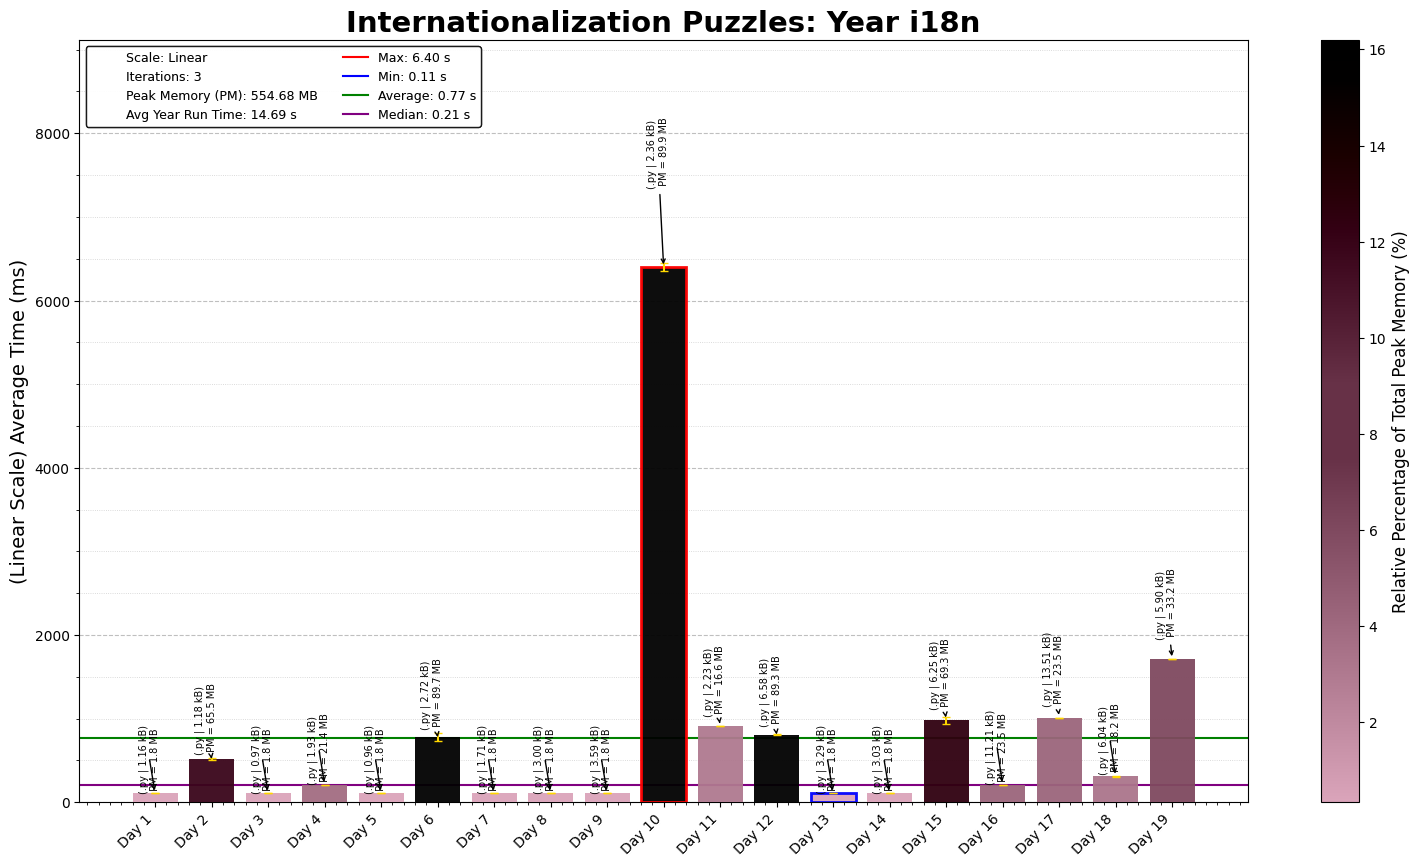
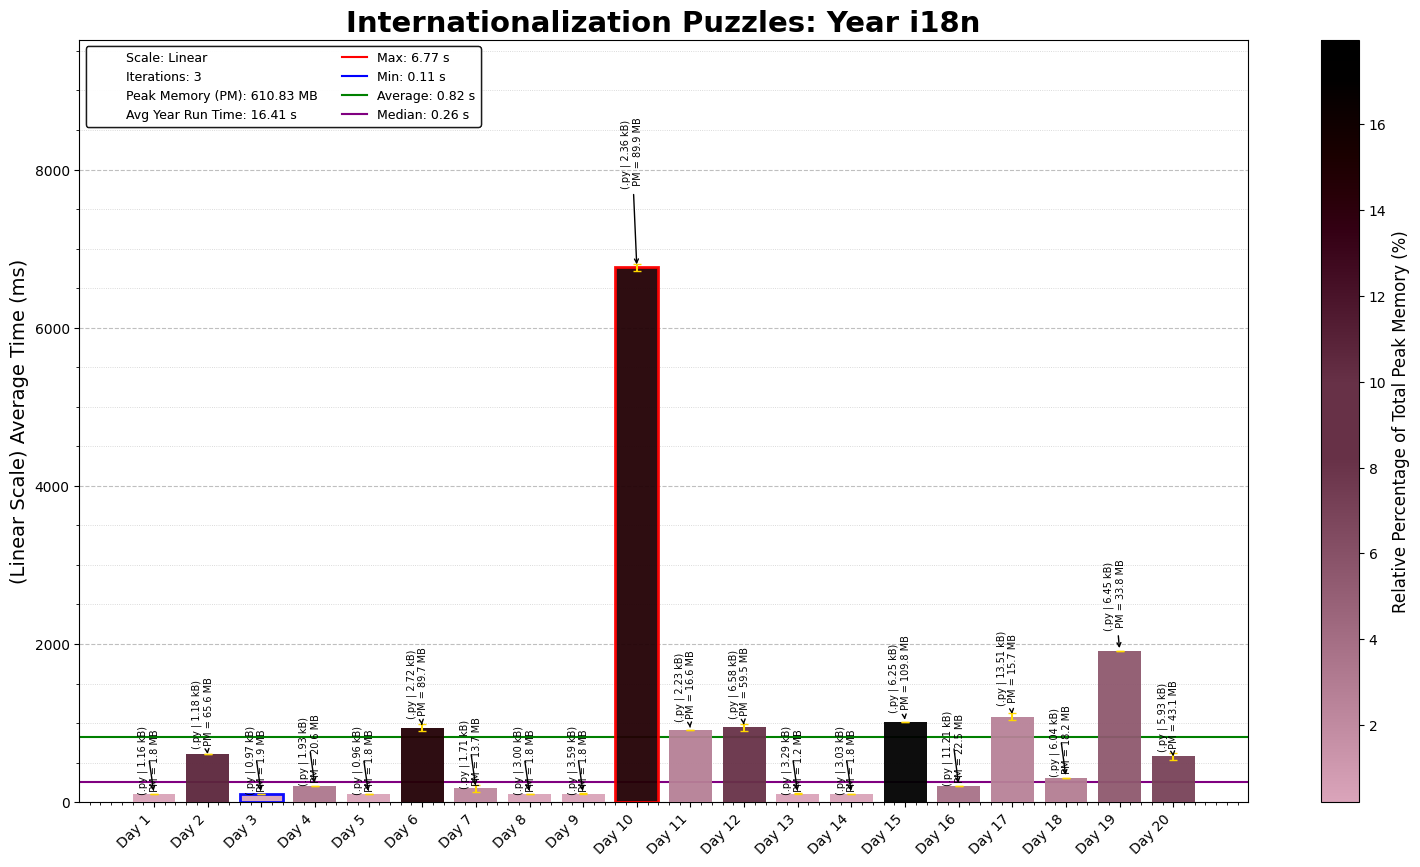
i18n Day20 Complete

diff --git a/i18n/20/i18nDay20.py b/i18n/20/i18nDay20.py
@@ -7,7 +7,7 @@ Brief: [The future of Unicode]
 
 #!/usr/bin/env python3
 
-import os, re, copy, time , more_itertools, base64
+import os, re, copy, time, base64
 import numpy as np
 import pandas as pd
 start_time = time.time()
@@ -21,8 +21,6 @@ with open(D20_file_path) as file:
     input_data = file.read().strip().split('\n')
 
 class UnicodeEncryptor:
[1 lines of base64/hex data omitted]
-
     def __init__(self, debug: bool = False):
         self.debug = debug
         self.test_message = self.__get_test("test_input.txt")
@@ -45,20 +43,20 @@ class UnicodeEncryptor:
         else:
             return "utf-8", bytes_data  # Default fallback
 
-    def __get_utf_text(self, encoded_message):
+    def get_utf_text(self, encoded_message):
         bytes_data = base64.b64decode(encoded_message)
         encoding_type, stripped_bytes = self.__identify_encoding(bytes_data)
         utf_text = stripped_bytes.decode(encoding_type)
 
         if self.debug:
-            print(" Init Message:", encoded_message)
-            print("Decoded bytes:", bytes_data)
-            print("Encoding Type:", encoding_type)
-            print("Bytes w/o BOM:", stripped_bytes)
-            print(" Decoded text:", utf_text)
+            print("   Init Message:", encoded_message)
+            print("  Decoded bytes:", bytes_data)
+            print("  Encoding Type:", encoding_type)
+            print("  Bytes w/o BOM:", stripped_bytes)
+            print("   Decoded text:", utf_text)
         return utf_text
 
-    def __regroup_utf16(self, utf16_text, n):
+    def regroup_utf16(self, utf16_text, n):
         regrouped_bits = ''
         for char in utf16_text:
             bits = f"{ord(char):0{n}b}"  # Binary string of length `n`, zero-padded
@@ -70,21 +68,82 @@ class UnicodeEncryptor:
         bit_list = [int(regrouped_bits[i:i+8], 2) for i in range(0, len(regrouped_bits), 8)]
 
         if self.debug:
-            print(" Grouped Bits:", regrouped_bits)
-            print("     Bit List:", bit_list)
+            print(" Grouped Binary:", regrouped_bits)
+            print("       Bit List:", bit_list)
         return bit_list
 
-    def decode_message(self, encrypted):
-        encrypted = self.test_message
+    @staticmethod
+    def __add_bits(rem_bits, shift, start):
+        """Construct a binary string starting from rem_bits[start], slicing off the last `shift` bits,
+        then appending the last 6 bits of each remaining item."""
+        bits = format(rem_bits[start], '08b')[-shift:]
+        bits += ''.join(format(b, '08b')[-6:] for b in rem_bits[start + 1:])
+        return bits
+
+    def decode_binary(self, bits_list, k):
+        """Decode a list of byte values into a binary string based on prefix rules."""
+        decoded_bits = ''
+
+        while bits_list:
+            base = bits_list[0]
+
+            if base >= 252:
+                # 6-byte pattern (e.g., UTF-8 encoding for code points >= 0x4000000)
+                chunk, bits_list = bits_list[:6], bits_list[6:]
+                decoded_bits += self.__add_bits(chunk, shift=4, start=1)
+
+            elif 248 <= base <= 251:
+                # 5-byte pattern
+                chunk, bits_list = bits_list[:5], bits_list[5:]
+                decoded_bits += self.__add_bits(chunk, shift=2, start=0).zfill(k)
+
+            elif 194 <= base <= 223:
+                # 2-byte pattern (common for extended ASCII / multibyte UTF-8)
+                chunk, bits_list = bits_list[:2], bits_list[2:]
+                decoded_bits += self.__add_bits(chunk, shift=2, start=0).zfill(8)
+
+            else:
+                # Skip unrecognized or single-byte base characters
+                bits_list = bits_list[1:]
+
+        return decoded_bits
+
+    def convert_to_utf8(self, binary_code):
+        # Convert the binary string into bytes, 8 bits at a time
+        bit_values = [int(binary_code[i:i+8], 2) for i in range(0, len(binary_code), 8)]
+        byte_values = bytes(bit_values)
+        message = byte_values.decode('utf-8')
+        if self.debug:
+            print(" Decoded Binary:", binary_code)
+            print("     UTF-8 Bits:", bit_values)
+            print("    UTF-8 Bytes:", byte_values)
+            print("  Final Message:", message)
+        return message
+
+    def follow_message(self, message):
+        # Extract all integers from the message
+        numbers = list(map(int, re.findall(r'\d+', message)))
+
+        # Sanity check: ensure there are exactly 3 numbers
+        if len(numbers) != 3:
+            raise ValueError("Expected exactly three numbers in the message.")
+
+        # Return the number that is neither the min nor the max
+        return sorted(numbers)[1]
+
+    def decode_message(self, encrypted = None):
+        if encrypted is None:
+            encrypted = self.test_message
         joined_message = ''.join(encrypted)
-        self.debug = True
-        utf_text = self.__get_utf_text(joined_message)
-        utf8_bits = self.__regroup_utf16(utf_text, 20)
+        utf_text = self.get_utf_text(joined_message)
+        utf8_bits = self.regroup_utf16(utf_text, n = 20)
+        decoded_bits = self.decode_binary(utf8_bits, k = 28)
+        message = self.convert_to_utf8(decoded_bits)
+        value = self.follow_message(message)
+        return message, value
 
-        return
-
-decoded = UnicodeEncryptor().decode_message(input_data)
+decoded, result = UnicodeEncryptor().decode_message(input_data)
 print("Decoded Message:", decoded)
+print("     Final Code:", result)
 
-
-print(f"Execution Time = {time.time() - start_time:.5f}s")
+# print(f"Execution Time = {time.time() - start_time:.5f}s")

diff --git a/README.md b/README.md
@@ -13,7 +13,7 @@ This project contains a Python script (`CreateScript.py`) that can be used to cr
 |-----------------------------|-----------|--------|---------|-----------|-----------|
 | [Codyssi: Journey to Atlantis](https://www.codyssi.com/challenge_set_2?)| 2024/2025 | [Link](https://github.com/abbasmoosajee07/AlgoVault/tree/main/Codyssi)   | 18      | 18        | ✅ Done  |
 | [piDay](https://ivanr3d.com/projects/pi/)             | 2024/2025 | [Link](https://github.com/abbasmoosajee07/AlgoVault/tree/main/pi)   | 2       | 2         | ✅ Done  |
-| [i18n Challenges](https://i18n-puzzles.com/)             | 20 Puzzles| [Link](https://github.com/abbasmoosajee07/AlgoVault/tree/main/i18n)   | 20      | 18        | 2 Left |
+| [i18n Challenges](https://i18n-puzzles.com/)             | 20 Puzzles| [Link](https://github.com/abbasmoosajee07/AlgoVault/tree/main/i18n)   | 20      | 20        | ✅ Done  |
 
 
 -------------

diff --git a/i18n/README_i18n.md b/i18n/README_i18n.md
@@ -23,7 +23,7 @@ This repository contains coding solutions for the i18n puzzles.
 17. **Puzzle 17- X marks the spot**: Decode a treasure map to find the coordinates of X. Essentially approached it as a puzzle, main assumption based on there being a single match for each section. *Favourite Puzzle tho* `Global ranking- 31`
 18. **Puzzle 18- Rex To Lynx**: Reading and evaluating equations, while checking for BiDi Characters. `Global ranking- 38`
 19. **Puzzle 19- Out of date**: Accounting for out-of-date time recording systems, by looking at last updated versions and then correcting for the shifts. Took a while to loading the old versions of the Zoneinfo databases. `Global ranking- 34`
-20. **Puzzle 20- The future of Unicode**: Decoding an encrypted message using a given sample. `Global ranking- `
+20. **Puzzle 20- The future of Unicode**: Decoding an encrypted message using a given sample. `Global ranking- 26`
 ---
 
 
